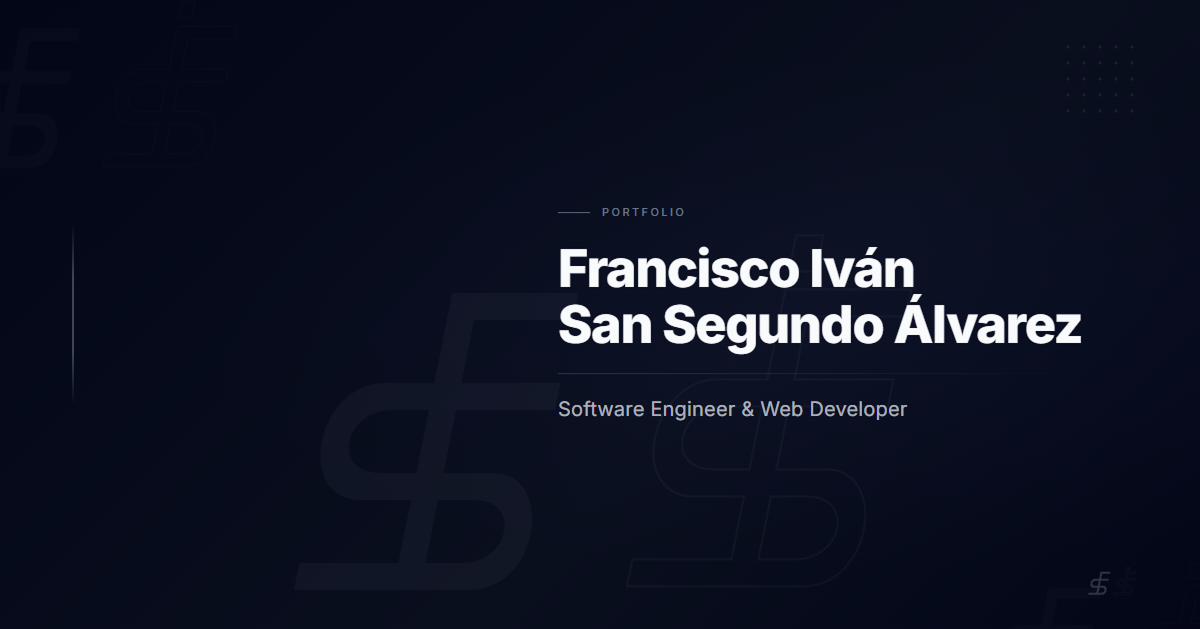
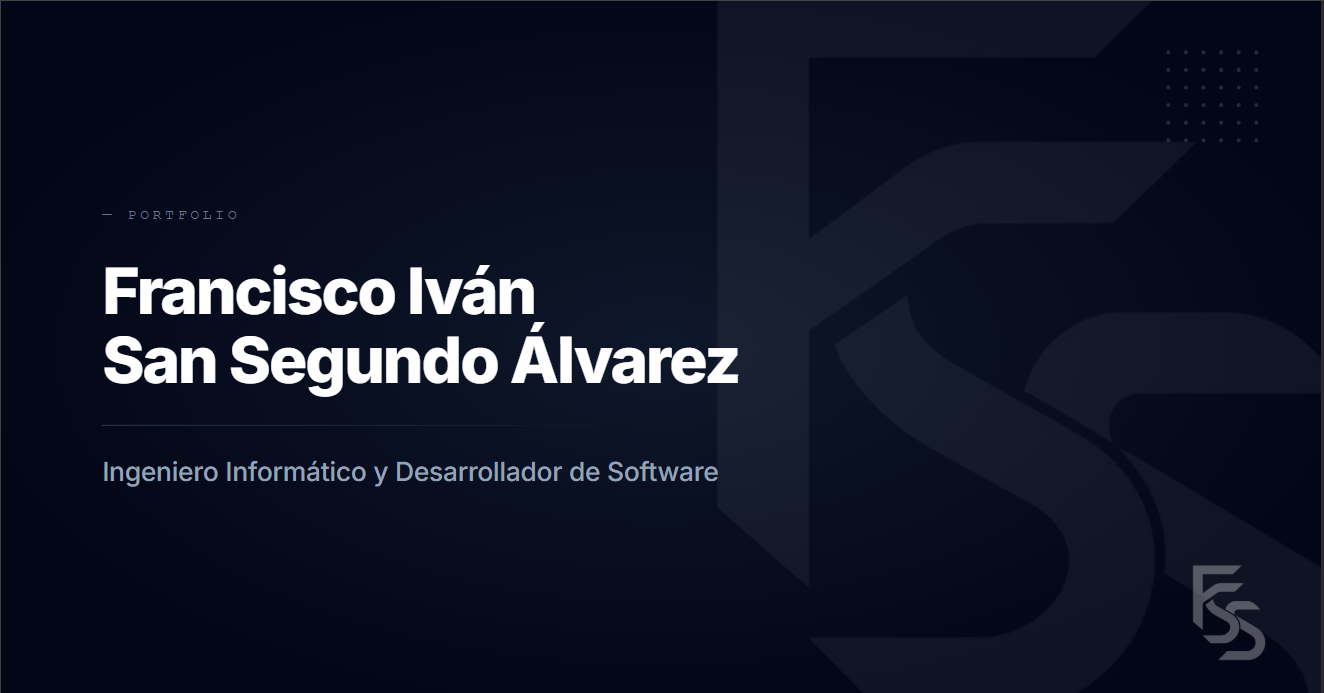
wip: add profile picture and initial bio layout

diff --git a/src/i18n/ui.ts b/src/i18n/ui.ts
@@ -7,8 +7,8 @@ export const defaultLang = 'es';
 
 export const ui = {
     es:{
-        'meta.title':'Francisco Iván San Segundo | Ingeniero Informático y Desarrollador Web' ,
-        'meta.description': 'Portfolio de Francisco Iván San Segundo, Ingeniero Informático y Desarrollador Web especializado en desarrollo de software, ciberseguridad e infraestructura de sistemas.',
+        'meta.title':'Francisco Iván San Segundo | Ingeniero Informático y Desarrollador de Software' ,
+        'meta.description': 'Portfolio de Francisco Iván San Segundo, Ingeniero Informático especializado en desarrollo de software, ciberseguridad e infraestructura de sistemas.',
         'role': 'Ingeniero Informático',
         'btn.cv': 'Descargar CV',
         'home': 'Inicio',
@@ -18,12 +18,15 @@ export const ui = {
         'stack': 'Stack tecnológico',
         'contact': 'Contacto',
         'menu.toggle': 'Abrir o cerrar menú',
-        'text.copyright': '© 2026 Francisco Iván San Segundo. Todos los derechos reservados.'
+        'text.copyright': '© 2026 Francisco Iván San Segundo. Todos los derechos reservados.',
+        'texto.sobremi.p1':'Soy graduado en Ingeniería Informática por la Universidad de Valladolid. Concibo el desarrollo de software estrechamente ligado a los entornos donde opera: no solo diseño aplicaciones robustas, sino que presto la misma atención a los sistemas, la infraestructura y la seguridad desde la primera línea de código.',
+        'texto.sobremi.p2':'Mi paso por NTT Data en entornos de virtualización, TelcoCloud y observabilidad SRE reforzó mi visión hacia el paradigma NetDevOps. Fruto de este enfoque nace S2 Orchestrator, una plataforma Full-Stack de orquestación y monitorización de redes virtuales desarrollada como Trabajo Fin de Grado, cuyos detalles técnicos puedes consultar en la sección de proyectos.',
+
     },
     en:{
-        'meta.title':'Francisco Iván San Segundo | Software Engineer & Web Developer' ,
-        'meta.description': 'Portfolio of Francisco Iván San Segundo, Software Engineer and Web Developer focused on software development, cybersecurity, and systems infrastructure.',
-        'role': 'Software Engineer',
+        'meta.title':'Francisco Iván San Segundo | Computer Engineer & Software Developer' ,
+        'meta.description': 'Portfolio of Francisco Iván San Segundo, Computer Engineer focused on software development, cybersecurity, and systems infrastructure.',
+        'role': 'Computer Engineer',
         'btn.cv': 'Download CV',
         'home': 'Home',
         'about': 'About me',
@@ -32,7 +35,9 @@ export const ui = {
         'stack': 'Tech Stack',
         'contact': 'Contact',
         'menu.toggle': 'Toggle navigation menu',
-        'text.copyright': '© 2026 Francisco Iván San Segundo. All rights reserved.'
+        'text.copyright': '© 2026 Francisco Iván San Segundo. All rights reserved.',
+        'texto.sobremi.p1':'I hold a degree in Computer Engineering from the University of Valladolid. I view software development as closely tied to the underlying infrastructure: I focus on building robust applications while giving equal importance to systems, runtime stability, and security by design.',
+        'texto.sobremi.p2':'My experience at NTT Data within virtualization, TelcoCloud, and SRE observability solidified my commitment to NetDevOps principles. This background led to the creation of S2 Orchestrator, a Full-Stack virtual network orchestration and telemetry platform built as my final degree project, which is detailed further in the projects section.'
         
     
     }, 
